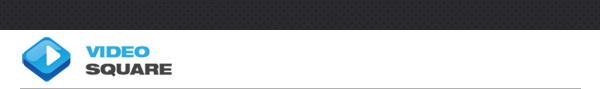
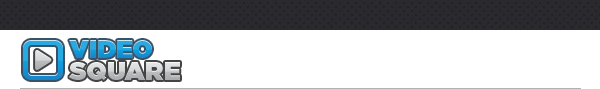
[in progress: 169] Logó update

Changed region(s): [[0.03, 0.4045, 0.33, 0.9213]]

diff --git a/httpdocs_static/css/style_mobile.css b/httpdocs_static/css/style_mobile.css
@@ -178,6 +178,11 @@
 
 @media all and (max-width: 944px) {
   
+  #headermenu a {
+    margin-right: 2px;
+    padding: 11px 2px 0px 10px;
+  }
+  
   .categorylist .categoryname .categorypic img {
     width: 98px;
     height: 70px;
@@ -268,10 +273,14 @@
   }
   #headerlogo a, #headerlogo a span {
     width: 114px;
-    height: 38px;
+    height: 34px;
   }
   #headertop, #headerlogo {
     height: 41px;
+  }
+  #headerlogo {
+    padding-top: 3px;
+    height: 38px;
   }
   #headerlogo a span {
     -webkit-background-size: 100% auto;
@@ -283,8 +292,8 @@
   #headermenu a {
     height: 27px;
     font-size: 14px;
-    margin-right: 21px;
-    padding: 6px 7px 0px 7px;
+    margin-right: 2px;
+    padding: 6px 2px 0px 2px;
   }
   
   #footerbg {
@@ -328,19 +337,22 @@
   }
   #headerlogo a, #headerlogo a span {
     width: 78px;
-    height: 26px;
+    height: 22px;
   }
   #headertop, #headerlogo {
     height: 29px;
+  }
+  #headerlogo {
+    height: 26px;
   }
   #headerbottom {
     height: 24px;
   }
   #headermenu a {
     height: 19px;
-    font-size: 12px;
+    font-size: 11px;
     margin-right: 0px;
-    padding: 3px 3px 2px 3px;
+    padding: 3px 0px 2px 0px;
   }
   #headermenu li.active a {
     -webkit-background-size: 8px auto;

diff --git a/httpdocs_static/css/style.css b/httpdocs_static/css/style.css
@@ -481,12 +481,13 @@ a.submitbutton:hover {
 #headerlogo {
   height: 58px;
   padding-left: 13px;
+  padding-top: 4px;
 }
 #headerlogo a, #headerlogo a span {
   display: inline-block;
-  width:  150px;
+  width:  171px;
   overflow: hidden;
-  height: 55px;
+  height: 51px;
 }
 #headerlogo a span {
   background-image: url(images/header_logo.png);

diff --git a/config.php b/config.php
@@ -2,7 +2,7 @@
 $config = array(
   'siteid'       => 'teleconnect',
   'hashseed'     => 'ö923mfk3a,.dműteleconnect',
-  'version'      => '_v20120725',
+  'version'      => '_v20120911',
   'charset'      => 'UTF-8',
   'cacheseconds' => 3600,
   'errormessage' => 'An unexpected error has occured, our staff has been notified. Sorry for the inconvenience and thanks for your understanding!',
